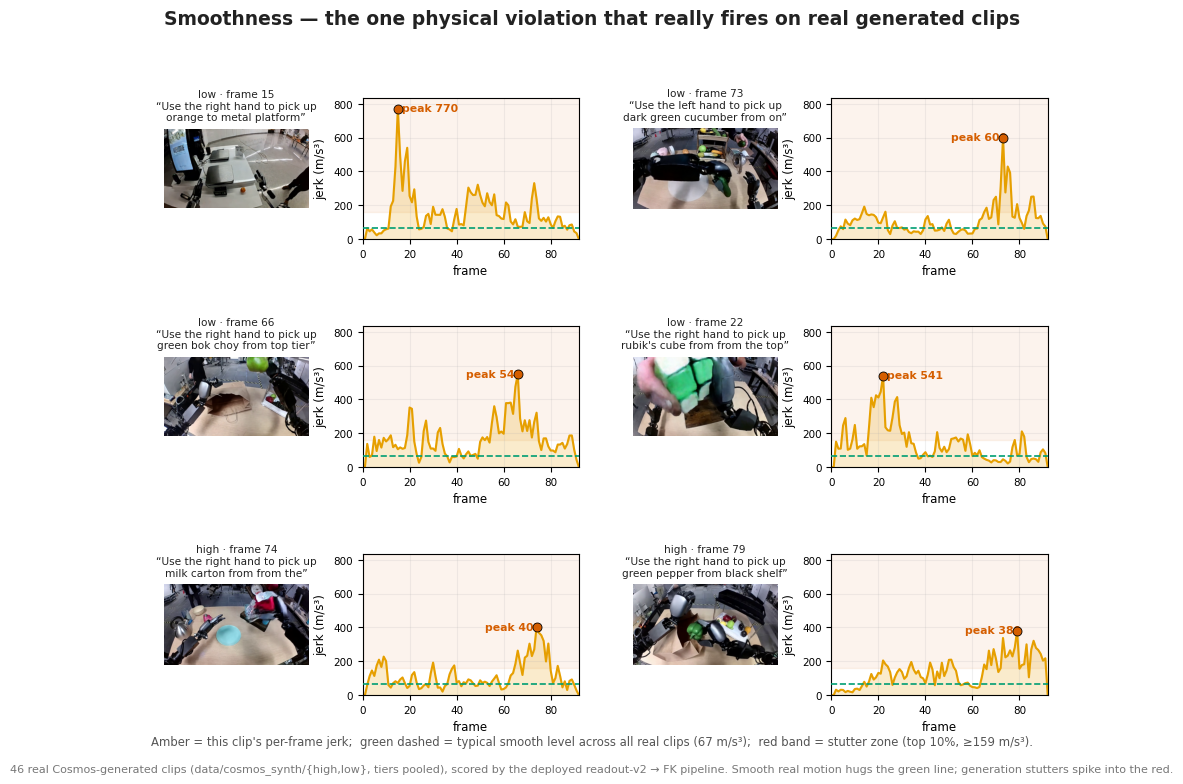
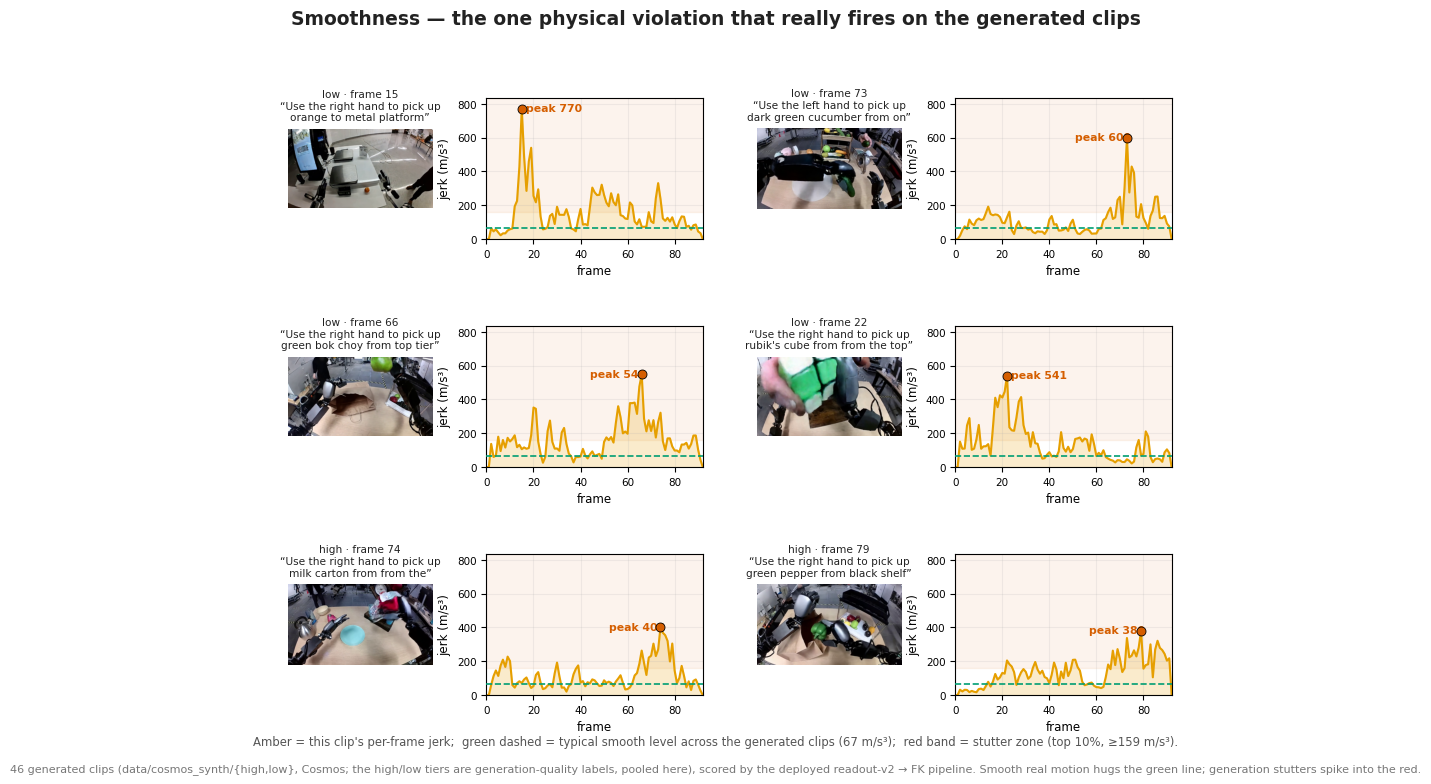
Per-cache-method curve galleries; fix generated-vs-real terminology
- Fixes misleading wording: the cosmos_synth high/low clips are GENERATED
  (generation-quality tiers), not real footage. Captions corrected throughout.
- Drops the quiet-checks histogram panel (per feedback: the curve style reads
  better); joint-limit gauge kept as the honest quiet example.
- Adds four per-method galleries in the same curve style (dense / dicache /
  fastercache / worldcache), overlaying each generated clip's jerk (amber)
  against its OWN paired real ground-truth clip (green) of the identical scene
  — a clean, fps-fair real-vs-generated comparison that mirrors the benchmark
  tables. Built by scripts/gr1/47_cache_method_galleries.py from
  outputs_bench/scores (no GPU / no re-encode).

diff --git a/index.html b/index.html
@@ -111,12 +111,18 @@
 <div class="mgrid"><article class="mcard"><div class="mcard-head"><h4>Do solid parts of the body overlap?</h4><span class="pill rule">physics rule &middot; nothing learned</span></div><div class="mcard-img"><img src="assets/measurements/m_selfcollision.png" loading="lazy" alt=""></div><p class="m-real">In real life: an arm passing straight through the chest, which a solid body can never do.</p><p class="m-line"><span class="lbl ok">what it checks</span> Checks whether any two solid parts of the body pass through each other in 3-D — for example an arm through the chest.</p><p class="m-line"><span class="lbl viol">a violation looks like</span> Folding the arms into the torso makes the parts overlap by about 12&nbsp;cm; a genuine recorded pose overlaps by exactly zero.</p></article><article class="mcard"><div class="mcard-head"><h4>Does the robot's weight stay over its feet?</h4><span class="pill rule">physics rule &middot; nothing learned</span></div><div class="mcard-img"><img src="assets/measurements/m_com_balance.png" loading="lazy" alt=""></div><p class="m-real">In real life: leaning so far you topple over instead of staying upright.</p><p class="m-line"><span class="lbl ok">what it checks</span> Measures how much margin there is before the robot's weight would fall outside the area under its feet.</p><p class="m-line"><span class="lbl viol">a violation looks like</span> A hard lean shrinks that margin; on this light-armed robot it never actually tips, and we report that honestly.</p></article><article class="mcard"><div class="mcard-head"><h4>Is every joint within its real limits?</h4><span class="pill rule">physics rule &middot; nothing learned</span></div><div class="mcard-img"><img src="assets/measurements/m_joint_limits.png" loading="lazy" alt=""></div><p class="m-real">In real life: a joint bent further than the real motor allows, like an elbow hinging backwards.</p><p class="m-line"><span class="lbl ok">what it checks</span> Checks each joint against the angles the real hardware can physically reach, using the manufacturer's model.</p><p class="m-line"><span class="lbl viol">a violation looks like</span> An impossible pose pushes four joints past their limits (drawn in red); the real pose stays fully in range.</p></article></div>
 <h3 class="mgroup">Motion over time, and the model's confidence</h3>
 <div class="mgrid"><article class="mcard"><div class="mcard-head"><h4>Does the motion flow smoothly over time?</h4><span class="pill rule">physics rule &middot; nothing learned</span></div><div class="mcard-img"><img src="assets/measurements/m_jerk.png" loading="lazy" alt=""></div><p class="m-real">In real life: motion that stutters and snaps instead of flowing the way a real motor moves.</p><p class="m-line"><span class="lbl ok">what it checks</span> Measures how abruptly the arms change speed from frame to frame — smooth motion scores low, juddering motion scores high.</p><p class="m-line"><span class="lbl viol">a violation looks like</span> A generated clip judders far more than the real clip it is paired with, here roughly two-and-a-half times as much.</p></article><article class="mcard"><div class="mcard-head"><h4>How sure is the reading on this frame?</h4><span class="pill conf">the model's own confidence</span></div><div class="mcard-img"><img src="assets/measurements/m_sigma.png" loading="lazy" alt=""></div><p class="m-real">In real life: the model saying 'I can't quite tell here' instead of pretending to be certain.</p><p class="m-line"><span class="lbl ok">what it checks</span> For each joint, the pose reader also reports how confident it is, so unreliable frames can be set aside rather than trusted blindly.</p><p class="m-line"><span class="lbl viol">a violation looks like</span> On a blurry or blocked frame its stated uncertainty grows on the hard joints — a flag, not a silent guess.</p></article></div>
-  <h3 class="mgroup">The ruler in the wild &mdash; real generated clips, no staged corruptions</h3>
-  <p class="fig-note">Every panel above pairs a real pose with a <b>deliberately staged</b> violation, so you can see what each number measures. Now we point the exact same pipeline at 46 real Cosmos-generated clips (a mixed generation-quality set; the two tiers are pooled and ignored) and let it report what actually fires. The honest result: on real generated video two rules light up &mdash; <b>smoothness</b> and <b>limb rigidity</b> &mdash; while the joints stay in range and the body never overlaps or tips, so those checks correctly stay quiet. We show all of it, the loud and the silent.</p>
-  <figure class="fig"><img src="assets/highlow_gallery/gallery_jerk.png" loading="lazy" alt=""><figcaption>The six jerkiest real clips. Each is shown as its worst frame beside that clip's frame-by-frame jerk (how abruptly the arms change speed).<span class="howto"><b>How to read this.</b> The amber curve is this clip's jerk over time; the green dashed line is the typical smooth level across all the real clips (about 67&nbsp;m/s³); the red band is the &ldquo;stutter zone&rdquo; that only the worst 10% of frames reach. Real motion would hug the green line &mdash; instead every generated clip spikes far into the red, up to 770&nbsp;m/s³. Nothing here is planted; these are the metric's own worst findings.</span></figcaption></figure>
+  <h3 class="mgroup">The ruler in the wild &mdash; generated clips, no staged corruptions</h3>
+  <p class="fig-note">Every panel above pairs a real pose with a <b>deliberately staged</b> violation, so you can see what each number measures. Now we point the exact same pipeline at 46 <b>generated</b> clips (from Cosmos; the &ldquo;high&rdquo;/&ldquo;low&rdquo; labels are just generation-quality tiers, pooled here) and let it report what actually fires. The honest result: on generated video two rules light up &mdash; <b>smoothness</b> and <b>limb rigidity</b> &mdash; while the joints stay in range and the body never overlaps or tips, so those checks correctly stay quiet.</p>
+  <figure class="fig"><img src="assets/highlow_gallery/gallery_jerk.png" loading="lazy" alt=""><figcaption>The six jerkiest generated clips. Each is shown as its worst frame beside that clip's frame-by-frame jerk (how abruptly the arms change speed).<span class="howto"><b>How to read this.</b> The amber curve is this clip's jerk over time; the green dashed line is the typical smooth level across the generated set (about 67&nbsp;m/s³); the red band is the &ldquo;stutter zone&rdquo; that only the worst 10% of frames reach. Smooth motion would hug the green line &mdash; instead every clip spikes far into the red, up to 770&nbsp;m/s³. Nothing here is planted; these are the metric's own worst findings.</span></figcaption></figure>
   <figure class="fig"><img src="assets/highlow_gallery/gallery_rigidity.png" loading="lazy" alt=""><figcaption>The same set, seen through the limb-rigidity check: a rigid arm bone can never change length, so the reconstructed bone should keep a constant length throughout a clip.<span class="howto"><b>How to read this.</b> The blue curve is how far the worst arm bone strays from its own median length, frame by frame; the grey dashed line is a 30&nbsp;mm tolerance and the red band is beyond it. A physical arm would read a flat zero &mdash; here the generated limbs rubber-band, stretching and snapping back by 20&ndash;34&nbsp;mm. This is a second, independent physical tell of bad generation, unrelated to jerk.</span></figcaption></figure>
-  <figure class="fig"><img src="assets/highlow_gallery/gallery_joint_limit.png" loading="lazy" alt=""><figcaption>The joint-limit check on the same real clips: a clean frame (left) beside the single most out-of-range frame in the whole set (right).<span class="howto"><b>How to read this.</b> Each grey bar is one joint's real hardware travel &mdash; the limit; the dot is the angle the reader recovered. On real generated video almost every joint sits comfortably inside, and even the worst frame in 46 clips has just one wrist grazing its limit by 2.6&deg;. That is the point: unlike the deliberately impossible pose in the instrument panel above, the limit check does not cry wolf on real footage.</span></figcaption></figure>
-  <figure class="fig"><img src="assets/highlow_gallery/gallery_quiet_checks.png" loading="lazy" alt=""><figcaption>And the checks that should stay silent, do. Three of the physical rules read essentially clean across all 46 real clips.<span class="howto"><b>How to read this.</b> Each histogram is one rule over the 46 clips. Self-collision: arms never pass through the body (every clip near 0&nbsp;mm). Balance: the centre of mass stays 100&nbsp;mm+ inside the foot support on every clip &mdash; nowhere near the tipping edge at 0. Joint-velocity: only a handful of frames, in a single clip, graze the motor's rated speed. Real footage is never falsely flagged; the metric fires only where the physics is genuinely broken.</span></figcaption></figure>
+  <figure class="fig"><img src="assets/highlow_gallery/gallery_joint_limit.png" loading="lazy" alt=""><figcaption>The joint-limit check on the same generated clips: a clean frame (left) beside the single most out-of-range frame in the whole set (right).<span class="howto"><b>How to read this.</b> Each grey bar is one joint's real hardware travel &mdash; the limit; the dot is the angle the reader recovered. On generated video almost every joint sits comfortably inside, and even the worst frame in 46 clips has just one wrist grazing its limit by 2.6&deg;. That is the point: unlike the deliberately impossible pose in the instrument panel above, the limit check does not cry wolf.</span></figcaption></figure>
+
+  <h3 class="mgroup">Real vs. generated, method by method &mdash; the smoothness tax of caching</h3>
+  <p class="fig-note">The four benchmarked generators &mdash; a <b>dense</b> baseline plus the <b>DiCache</b>, <b>FasterCache</b> and <b>WorldCache</b> accelerators &mdash; each run on paired clips where every generated video has its <b>own real ground-truth clip of the identical scene</b>. That pairing is the cleanest control there is: same scene, same length, same frame-rate, so any gap in the physics curve is caused by generation alone. We overlay both traces on one axis: <span style="color:#009E73"><b>green = the real clip</b></span>, <span style="color:#E69F00"><b>amber = the generated clip</b></span>.</p>
+  <figure class="fig"><img src="assets/highlow_gallery/gallery_cache_dense.png" loading="lazy" alt=""><figcaption>Dense &mdash; the un-accelerated baseline. Its four jerkiest episodes, real vs generated jerk on the same scene.<span class="howto"><b>How to read this.</b> Green is the real ground-truth clip's jerk; amber is the dense generator's output for that exact scene. The real trace stays low and flat; the generated one spikes to 200+&nbsp;m/s³. Even with no acceleration at all, generation itself adds a median +7&nbsp;m/s³ of jerk over ground truth &mdash; the physics cost is baked into generating video.</span></figcaption></figure>
+  <figure class="fig"><img src="assets/highlow_gallery/gallery_cache_dicache.png" loading="lazy" alt=""><figcaption>DiCache &mdash; a caching accelerator. Same layout; the added-jerk tax is statistically identical to dense.<span class="howto"><b>How to read this.</b> Green real vs amber generated, this method's four worst episodes. The accelerator does not make the physics meaningfully worse than the un-accelerated baseline &mdash; the same ~+7&nbsp;m/s³ median gap, no more.</span></figcaption></figure>
+  <figure class="fig"><img src="assets/highlow_gallery/gallery_cache_fastercache.png" loading="lazy" alt=""><figcaption>FasterCache &mdash; a caching accelerator. Real vs generated on its four worst episodes.<span class="howto"><b>How to read this.</b> Again the green real trace is smooth and the amber generated trace stutters. Buying speed with caching costs essentially nothing in extra jerk over the dense baseline.</span></figcaption></figure>
+  <figure class="fig"><img src="assets/highlow_gallery/gallery_cache_worldcache.png" loading="lazy" alt=""><figcaption>WorldCache &mdash; a caching accelerator. Real vs generated on its four worst episodes.<span class="howto"><b>How to read this.</b> Same story across all four generators: the real ground truth (green) is smooth, generation (amber) stutters, and the accelerators pay the same physics tax as dense. The smoothness cost lives in generation, not in the speed-up &mdash; so for physics, these accelerators are free.</span></figcaption></figure>
 </section>
 
 